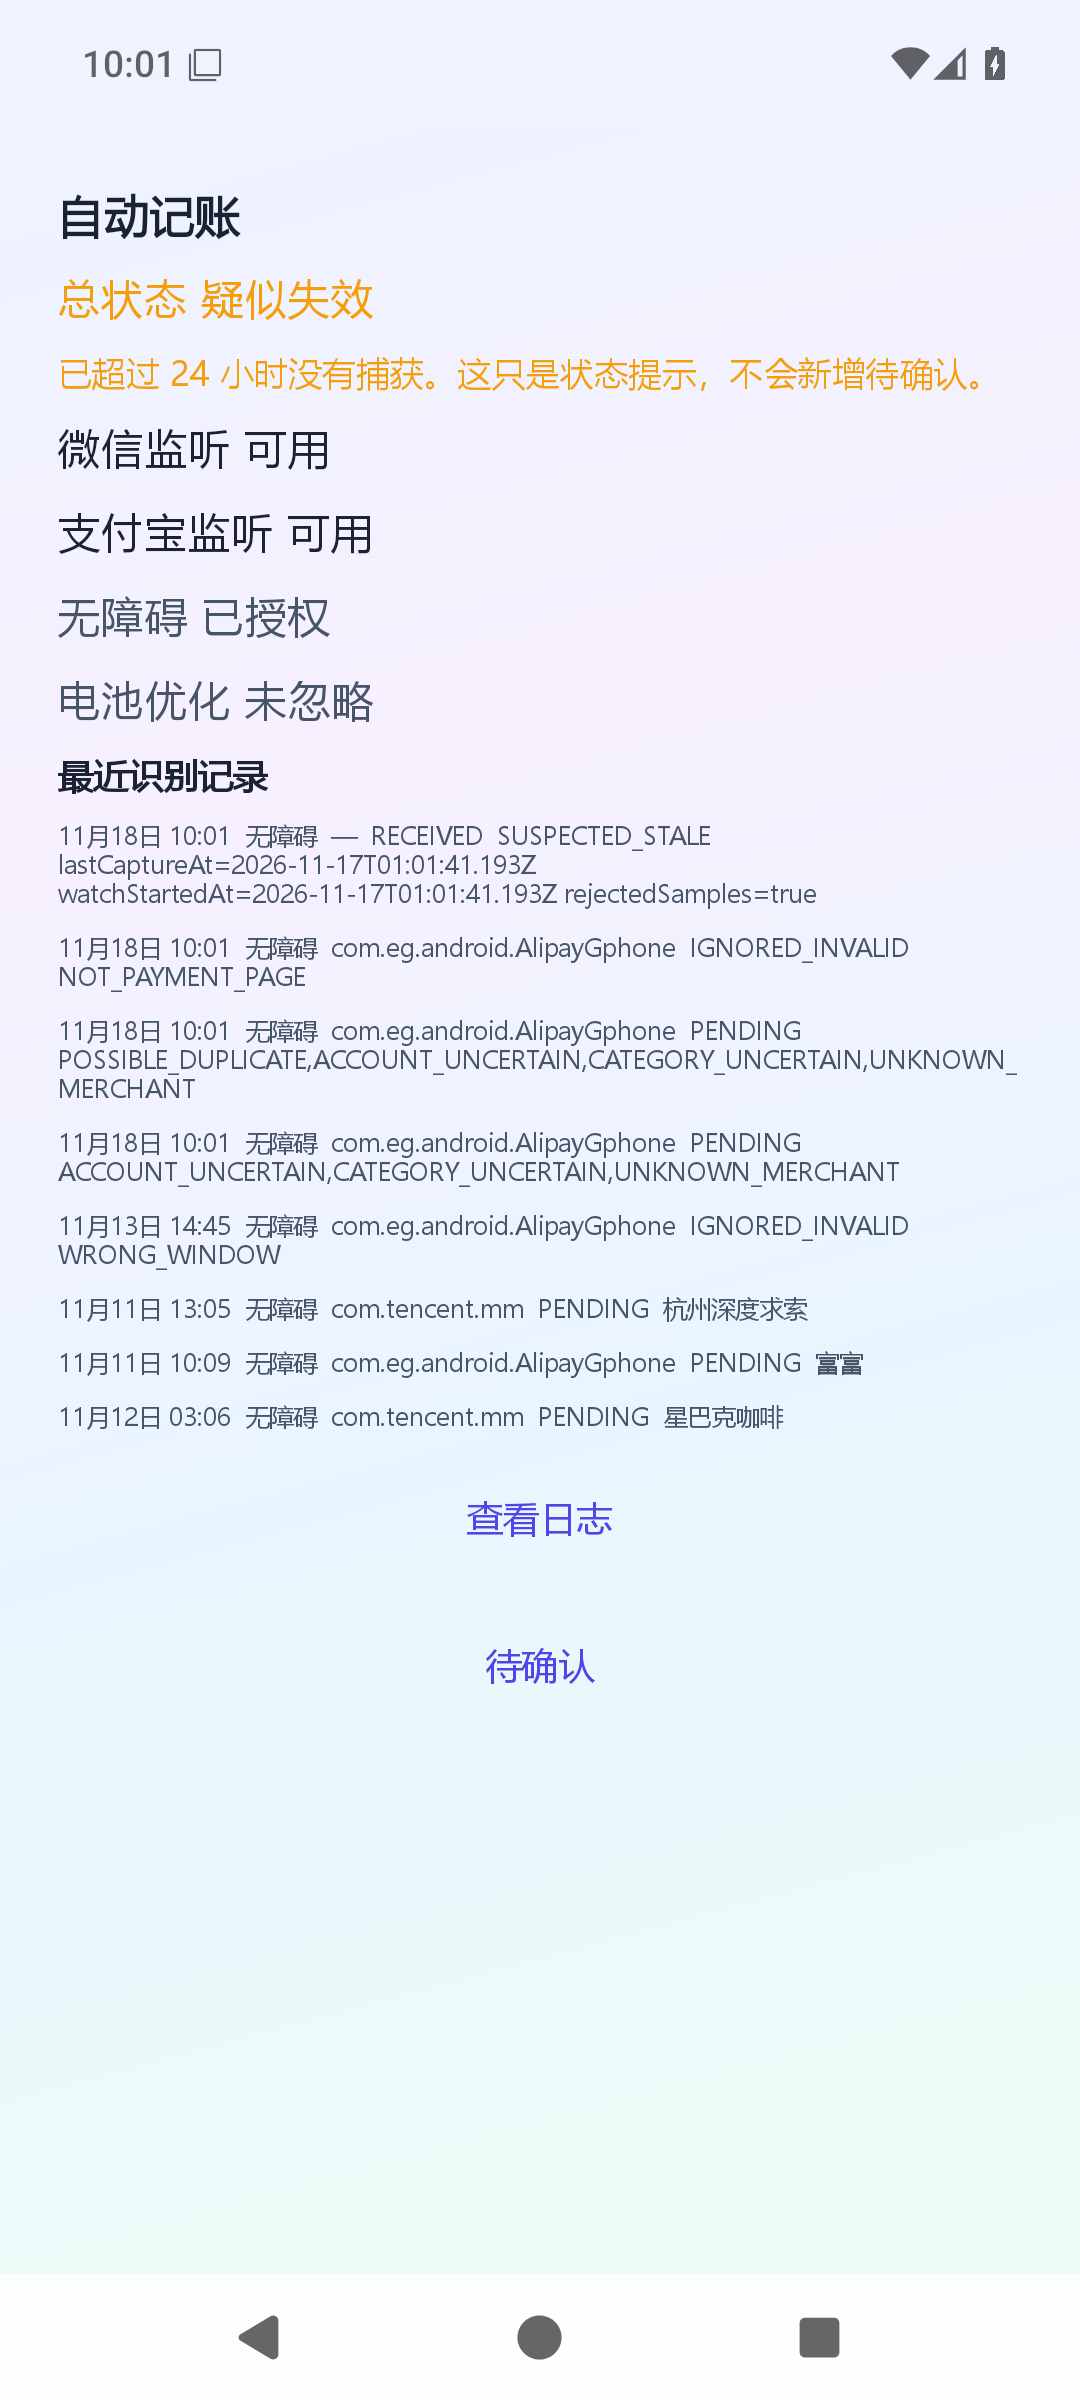
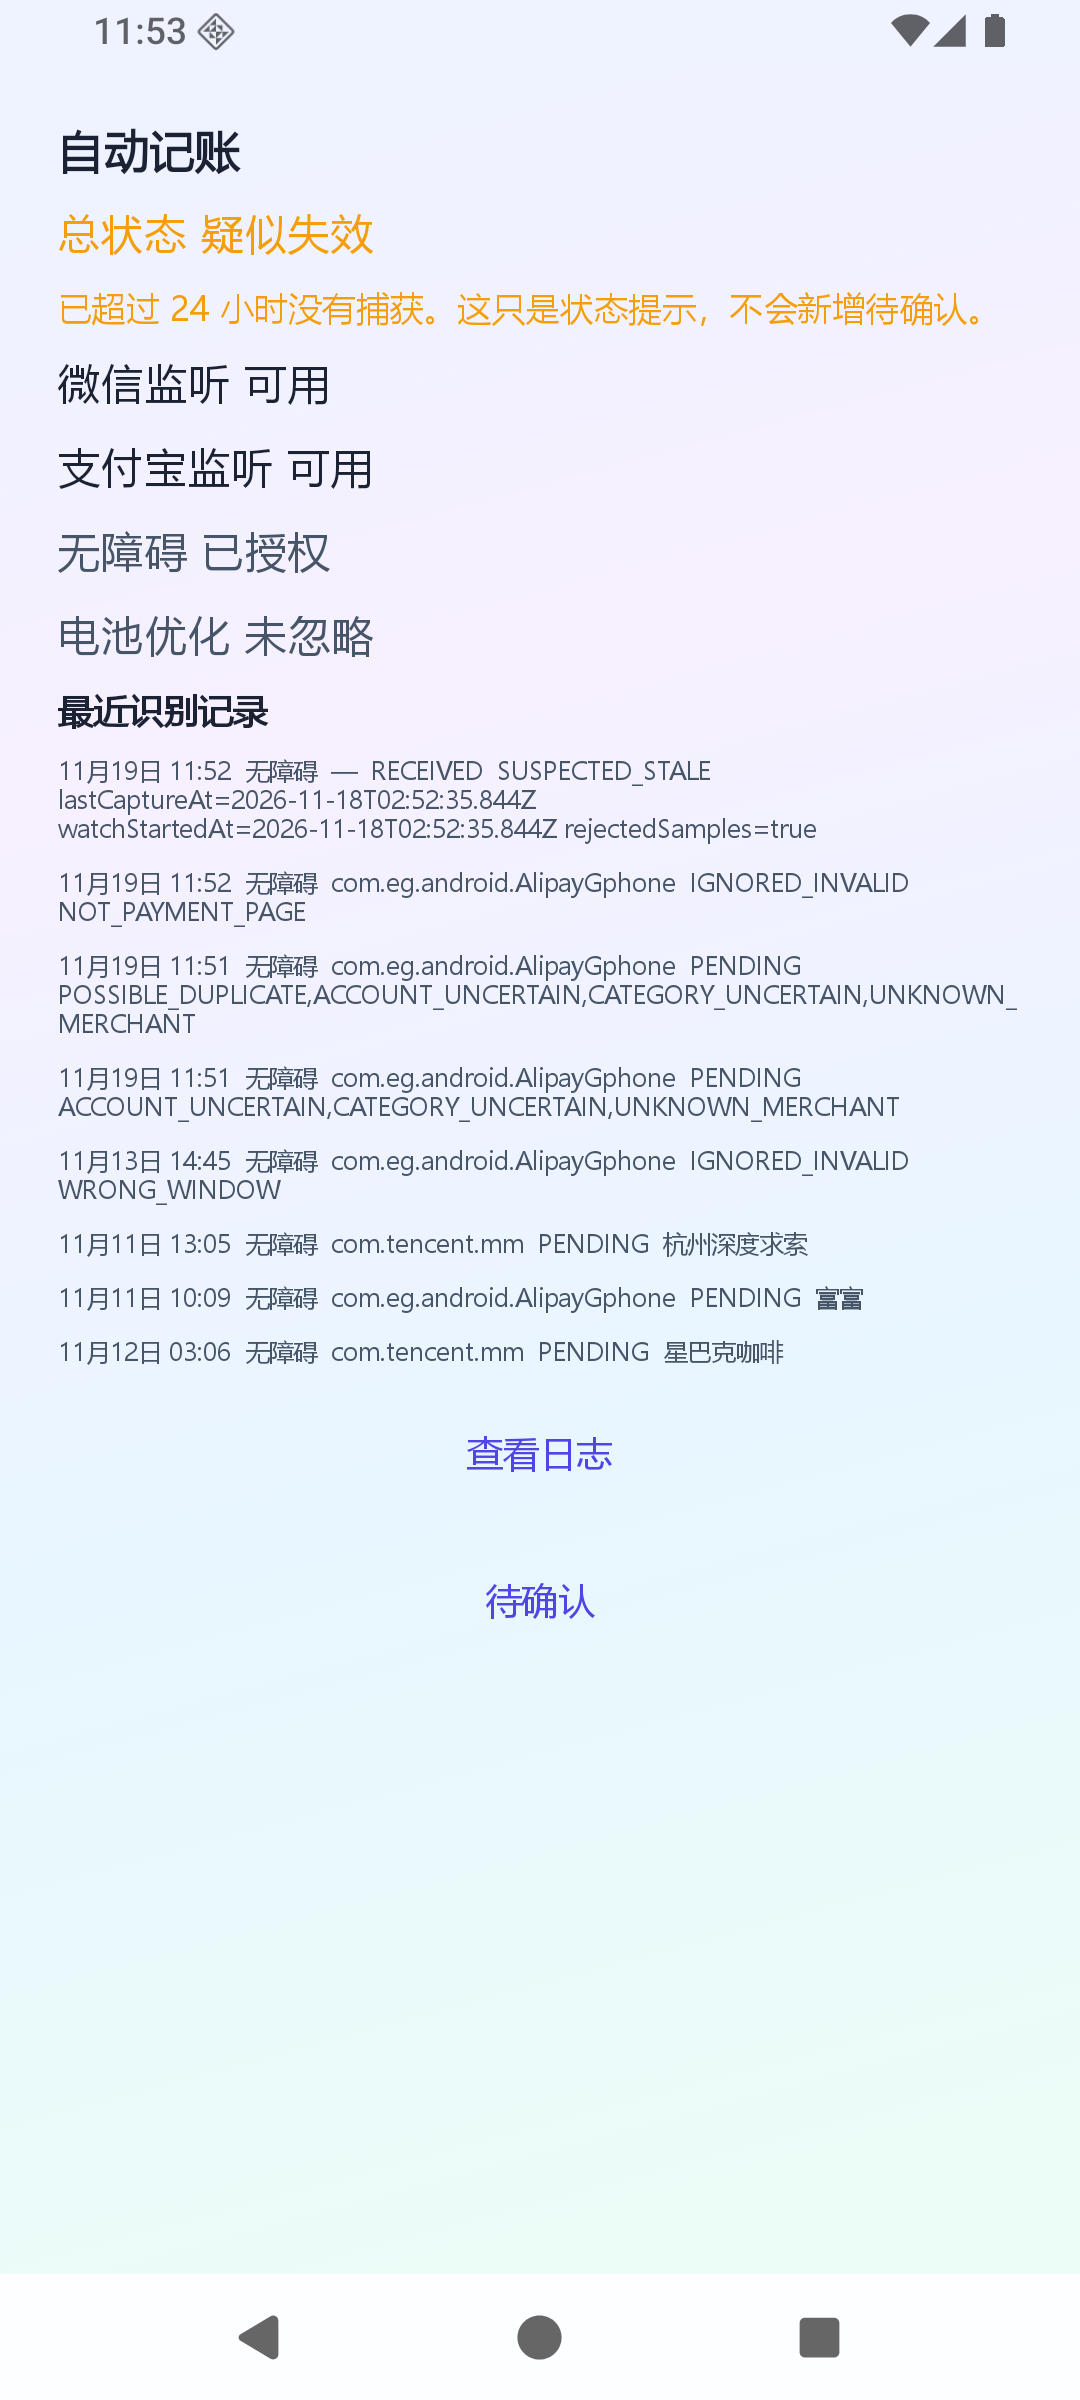
docs(proof): replace FX-1 evidence with the 6d5f42c6 emulator run
The JSON, broadcast log, git-sha, and four screenshots come from
Fx1ProofTest on that build. The device replay summary and install smoke
replace the placeholders. ac3-after-wrong-pending.png stays from c774287.

diff --git a/docs/proof/fx-1/README.md b/docs/proof/fx-1/README.md
@@ -1,8 +1,12 @@
 # FX-1 取证
 
-当前功能提交 `6d5f42c612db0768773fbf029349b240c9e08dec`。`git-sha.txt` 是这个提交。文档提交 `6868949cfe148a7247f0fce974e10ec4371e17e8` 只改 `docs/03`。
+功能提交 `6d5f42c612db0768773fbf029349b240c9e08dec`。`git-sha.txt` 与本目录里带 `gitSha` 的 JSON 都是这个提交。文档提交 `6868949cfe148a7247f0fce974e10ec4371e17e8` 只改 `docs/03`。
 
-AC-1 到 AC-5、AC-7 的 JSON 和截图仍是功能提交 `c77428730c79f5e8ff3ee985e3d3d0cf9c8381e8` 那次模拟器取证，这次没有替换。那些导出里的 `gitSha` 仍是 `c774287`。本环境模拟器停在 adb offline，没有用新包生成导出 JSON。AC-8、AC-9 是 JVM 单测摘录。截图时区 Asia/Shanghai。
+2026-11-19 本机 TCG 模拟器（AVD qj1，API 36）用该提交的 debug 包跑了 `Fx1ProofTest`，结果 OK (1 test)。16 个 JSON、`ac4-broadcast.txt`、`git-sha.txt` 和 4 张重拍 PNG 来自这次运行。仓库里没有缺新文件的旧 JSON，同名 JSON 都已换成这次的。
+
+没有 `gitSha` 字段的 JSON：`ac1-yuebao.json`、`ac1-yuebao-split.json`、`ac1-wrong-window.json`、`ac2-health-before.json`、`ac2-health.json`。其余 JSON 的 `gitSha` 都是 `6d5f42c612db0768773fbf029349b240c9e08dec`。
+
+`ac2-logs.png`、`ac3-yuebao-pending.png`、`ac4-stale-home.png`、`ac4-stale-auto-ledger.png` 是这次在 `6d5f42c6` 包上重拍的。`fx1-6d5f42c6-launch.png` 是同一次安装启动冒烟的截图。`ac3-after-wrong-pending.png` 仍是功能提交 `c77428730c79f5e8ff3ee985e3d3d0cf9c8381e8` 的图，这次包里没有同名新文件，所以保留。`suspected-stale-root-cause.md` 也不是这次导出，仍是原先那份说明。
 
 同一拒绝原因的去重窗口是 **60 秒**（`RejectionRateLimiter.WINDOW_MILLIS`）。窗口按原因码计算，不按包名。`now - previous < 60_000` 时丢掉后到的一条；刚好满 60 秒可以再记一条。
 
@@ -20,50 +24,66 @@ AC-1 到 AC-5、AC-7 的 JSON 和截图仍是功能提交 `c77428730c79f5e8ff3ee
 |---|---|
 | `ac2-export-before.json` | 六种原因各一条：WRONG_WINDOW、NO_MATCHING_WINDOW、NOT_PAYMENT_PAGE、WINDOW_NULL、NODE_EMPTY、SWITCH_OFF |
 | `ac2-export-after.json` | 与 before 相同。1 秒后的同原因没有再写 |
-| `ac2-health-before.json` / `ac2-health.json` | `lastCaptureAt` 仍为 null；`rejectedSamplesSinceCapture` 变为 true |
+| `ac2-health-before.json` / `ac2-health.json` | 两份都是 `lastCaptureAt` null、`watchStartedAt` null、`rejectedSamplesSinceCapture` true。这次的 before 已经是 true |
 | `ac2-ledger-before.json` / `ac2-ledger-after.json` | Pending 仍是 0 |
-| `ac2-logs.png` | 日志页筛选 IGNORED_INVALID，六种原因都在 |
+| `ac2-logs.png` | 日志页筛选 IGNORED_INVALID，六种原因都在。`6d5f42c6` 包上重拍 |
+
+这六条拒绝都带 `windowId`、`rootClass`、`viewIds`、`nodeCount`、`hasAmountStyle`、`hasPaymentKeyword`，值都是 null。测试记录它们时没有页面快照。
 
 ## AC-3 回放
 
 | 文件 | 内容 |
 |---|---|
 | `ac3-yuebao-ledger.json` | 两笔待确认，2510，EXPENSE，商户 null，ACCESSIBILITY，confirmedByUser false |
-| `ac3-yuebao-pending.png` | 待确认页 ¥25.10，商户显示「未知」 |
+| `ac3-yuebao-pending.png` | 待确认页 ¥25.10，商户显示「未知」。`6d5f42c6` 包上重拍 |
 | `ac3-before-wrong.json` / `ac3-after-wrong.json` | 看错窗口回放前后 Pending 条数不变 |
-| `ac3-after-wrong-pending.png` | 看错窗口回放后的待确认页：只有两笔 ¥25.10（余额宝），没有新增待确认。出处见下方说明 |
+| `ac3-after-wrong-pending.png` | 看错窗口回放后的待确认页。仍是 `c77428730c79f5e8ff3ee985e3d3d0cf9c8381e8` 的截图，见下方说明 |
 | `ac3-wrong-window-logs.json` | 导出含 WRONG_WINDOW 与 `fx-1-f-wrong-window`，不含页面正文 |
 | `ac3-regression.json` | m6-3-f-wx 1000/杭州深度求索，m6-3-f-ali 12999/富富，m6-2-wechat-pay-success 3850/星巴克咖啡。全部 PENDING，没有 CONFIRMED / DUPLICATE |
 
-`ac3-after-wrong-pending.png` 的出处：2026-11-18 11:27–11:30（HKT）在模拟器 qj1（TCG）上重跑 `Fx1ProofTest`，被测应用是功能提交 `c77428730c79f5e8ff3ee985e3d3d0cf9c8381e8` 的 debug 构建（sha256 与交付的 APK 相同，9258e3bc…）。为了多截这一张，我在本地给测试加了 3 行（看错窗口回放后再 `openPending()` 并 `shot("ac3-after-wrong-pending")`），这 3 行没有提交，仓库里的测试文件没变。这次重跑里 `ac3-before-wrong` 和 `ac3-after-wrong` 的 `pendingCount` 都是 2，行数都是 2，测试通过（OK (1 test)）。其余的 JSON 和 PNG 仍是原来那次取证的，这次没有替换。截图本身看不出回放发生过，它只证明回放之后待确认还是这两笔；回放前后条数不变看 `ac3-before-wrong.json` / `ac3-after-wrong.json`。
+`ac3-after-wrong-pending.png` 的出处：2026-11-18 11:27–11:30（HKT）在模拟器 qj1（TCG）上重跑 `Fx1ProofTest`，被测应用是功能提交 `c77428730c79f5e8ff3ee985e3d3d0cf9c8381e8` 的 debug 构建。为了多截这一张，本地给测试加了 3 行，这 3 行没有提交。这次 `6d5f42c6` 的包没有重拍这张图。
+
+`ac3-wrong-window-logs.json` 里，`fx-1-f-wrong-window` 那条 WRONG_WINDOW 有值：`windowId` 38598，`viewIds` 空数组，`nodeCount` 20，`hasAmountStyle` false，`hasPaymentKeyword` false，`rootClass` 仍是 null。同文件里没有页面快照的 `fx-1-WRONG_WINDOW`、`NOT_PAYMENT_PAGE`、`NO_MATCHING_WINDOW`、`WINDOW_NULL`、`NODE_EMPTY`、`SWITCH_OFF` 这六个字段都是 null。
 
 ## AC-4 疑似失效
 
 | 文件 | 内容 |
 |---|---|
-| `suspected-stale-root-cause.md` | 代码路径和 11-13 时间线（翻转发生在 11-13 09:00 到 14:45 之间） |
+| `suspected-stale-root-cause.md` | 代码路径和 11-13 时间线。不是这次导出，仍是原先的说明 |
 | `ac4-broadcast.txt` | 把上次捕获和开始监听一起拨回 25 小时 |
-| `ac4-stale-home.png` | 首页 `AUTO LEDGER · 疑似失效` |
-| `ac4-stale-auto-ledger.png` | 自动记账页「总状态 疑似失效」，一条翻转日志 |
+| `ac4-stale-home.png` | 首页 `AUTO LEDGER · 疑似失效`。`6d5f42c6` 包上重拍 |
+| `ac4-stale-auto-ledger.png` | 自动记账页「总状态 疑似失效」，一条翻转日志。`6d5f42c6` 包上重拍 |
 | `ac4-ledger.json` | Pending 仍是 5，没有新交易，没有 CONFIRMED / DUPLICATE |
 | `ac4-export.json` | 一条 `SUSPECTED_STALE`，含 lastCaptureAt、watchStartedAt、rejectedSamples=true |
 
 ## AC-5
 
-`git-sha.txt` = `6d5f42c612db0768773fbf029349b240c9e08dec`。该提交上 `assembleDebug` 打出的 debug 包，`BuildConfig.GIT_SHA` 与此相同。没有装到模拟器，也没有从设备拉出新的导出 JSON。
+`git-sha.txt` = `6d5f42c612db0768773fbf029349b240c9e08dec`。与这次模拟器上 `Fx1ProofTest` 写出的 `BuildConfig.GIT_SHA` 相同。
+
+## AC-7
+
+本切片没有自动确认路径。上表账本里无障碍行的 state 都是 PENDING，confirmedByUser 都是 false。
 
 ## AC-8 停留不再看节点文本
 
 | 文件 | 内容 |
 |---|---|
-| `ac8-stay.md` | 节点从「支付金额」换成「回首页」、相隔 1.3 秒仍是 1 条；不同单号、16 秒、不同窗口仍是 2 条。真机 ¥22.50 / ¥12.90 回放结果由 Eng 本机提供 |
+| `ac8-stay.md` | JVM 合成页，以及 `replay-summary-6d5f42c6.txt` 里 ¥22.50 / ¥12.90 的回放结论 |
+| `replay-summary-6d5f42c6.txt` | 真机回放摘要。只含时间、windowId、节点数和结论 |
 
 ## AC-9 会话列表拒绝证据
 
 | 文件 | 内容 |
 |---|---|
-| `ac9-chat-list.md` | 合成会话列表待确认 0 条，每次 `NOT_PAYMENT_PAGE`。单测导出含结构字段，不含正文、金额数字、人名、contentDescription。60 秒内同一原因只留一条 |
+| `ac9-chat-list.md` | 合成会话列表的单测断言，以及 windowId 44349 的 31 份回放 |
 
-## AC-7
+仪器导出里每条拒绝日志都有那六个结构字段。有值的只有 `fx-1-f-wrong-window`。带正文证据的 `NOT_PAYMENT_PAGE` 由 JVM 单测证明，摘录在 `ac9-chat-list.md`。
 
-本切片没有自动确认路径。上表账本里无障碍行的 state 都是 PENDING，confirmedByUser 都是 false。
+## AC-10 安装启动冒烟
+
+| 文件 | 内容 |
+|---|---|
+| `smoke-6d5f42c6.txt` | 卸载、安装、启动、崩溃检查的原始输出，未手改 |
+| `fx1-6d5f42c6-launch.png` | 启动后的截图 |
+
[1 lines of base64/hex data omitted]

diff --git a/docs/proof/fx-1/ac9-chat-list.md b/docs/proof/fx-1/ac9-chat-list.md
@@ -2,10 +2,26 @@
 
 功能提交 `6d5f42c612db0768773fbf029349b240c9e08dec`。
 
-来源仍是 JVM `AccessibilitySnapshotIngestTest`，不是模拟器上导出的文件。本环境的模拟器停在 adb offline，没有生成新的导出 JSON。
+`微信会话列表不入库并留下不含正文的拒绝日志` 通过。断言摘录：
 
-`微信会话列表不入库并留下不含正文的拒绝日志`：通过。待确认 0 条，原因 `NOT_PAYMENT_PAGE`，没有交易。导出 JSON 含 `windowId` 44349、根节点 class `android.widget.FrameLayout`、资源 id `com.tencent.mm:id/jga`、`nodeCount` 4、`hasAmountStyle` true、`hasPaymentKeyword` true。导出和 `rawCaptureRef` 都不含「王小明」「晚上吃饭」「更多功能」「头像」「3.90」「3.9」「390」。`sensitiveFindings` 为空。
+```text
+assertEquals(0, harness.transactions.countByState(TransactionState.PENDING))
+assertEquals("NOT_PAYMENT_PAGE", log.reason)
+assertTrue(exported.contains("\"windowId\":44349"))
+assertTrue(exported.contains("\"rootClass\":\"android.widget.FrameLayout\""))
+assertTrue(exported.contains("com.tencent.mm:id/jga"))
+assertTrue(exported.contains("\"nodeCount\":4"))
+assertTrue(exported.contains("\"hasAmountStyle\":true"))
+assertTrue(exported.contains("\"hasPaymentKeyword\":true"))
+listOf("王小明", "晚上吃饭", "更多功能", "头像", "3.90", "3.9", "390").forEach { secret ->
+    assertFalse(exported.contains(secret))
+    assertFalse(log.rawCaptureRef.orEmpty().contains(secret))
+}
+assertTrue(CaptureLogExport.sensitiveFindings(exported).isEmpty())
+```
 
-`同一会话列表隔七十分钟仍不产生待确认`：通过。待确认仍是 0。两次采样各写一条 `NOT_PAYMENT_PAGE`。
+`同一会话列表隔七十分钟仍不产生待确认` 也通过：待确认 0，两条都是 `NOT_PAYMENT_PAGE`。隔了 70 分钟，所以 60 秒限流放行第二条。
 
-60 秒限流按原因码，不按包名。同一原因在 60 秒内只留一条，所以导出条数可以少于采样次数；刚好满 60 秒可以再记一条。上面隔 70 分钟所以是 2 条。`AccessibilityRejectionLogTest` 的「六种原因都进导出且同窗口内只留一条」和「窗口刚好结束时可以再记一条」仍通过。
+仪器测试导出（`ac2-export-before.json`、`ac3-wrong-window-logs.json`、`ac4-export.json`）里，每条拒绝日志都有 `windowId`、`rootClass`、`viewIds`、`nodeCount`、`hasAmountStyle`、`hasPaymentKeyword`。有非空取值的只有 `fx-1-f-wrong-window`：`windowId` 38598，`viewIds` 为 `[]`，`nodeCount` 20，两个布尔都是 false，`rootClass` 仍是 null。没有页面快照的五种拒绝（`NO_MATCHING_WINDOW`、`NOT_PAYMENT_PAGE`、`WINDOW_NULL`、`NODE_EMPTY`、`SWITCH_OFF`）以及无快照的 `fx-1-WRONG_WINDOW`，这六个字段都是 null。带证据的 `NOT_PAYMENT_PAGE` 由上面这条 JVM 单测证明，不在这次仪器导出里。
+
+真机回放见 `replay-summary-6d5f42c6.txt`。微信会话列表 `windowId` 44349 共 31 份，回放后待确认 0 条。拒绝日志只有 `NOT_PAYMENT_PAGE`：写下 8 条，另外 23 条落在 60 秒限流内，记为 `REJECTED_LOG_RATE_LIMITED`，没有再写一条。方法和限制与 `ac8-stay.md` 相同。真机原始快照和数据库不进仓库。

diff --git a/docs/proof/fx-1/ac8-stay.md b/docs/proof/fx-1/ac8-stay.md
@@ -24,4 +24,8 @@ PASS 同支付时间隔七十分钟不再插入且捕获时刻另存
 - 无单号、同一 `windowId`、相隔 16 秒 → 2 条
 - 无单号、`windowId` 8801 与 8802、相隔 2 秒 → 2 条
 
-真机 ¥22.50 / ¥12.90 回放结果由 Eng 本机提供。私有快照和数据库不进仓库。
+真机回放见 `replay-summary-6d5f42c6.txt`（2026-11-19 11:43:33 生成，未手改）。方法：取真机库 33 条 PENDING 行的 `rawCaptureRef` 保真节点树，加上另外 17 份快照，按 `capturedAt` 排序，经 `AccessibilitySnapshotFidelity.decode` / `toSnapshot` 还原后，逐条喂给空库上的 `AccessibilitySnapshotIngest`。这是一次性 JVM harness，跑完已删除，没有入库。真机原始快照和数据库不进仓库。
+
+限制：真机快照没有 `className`、`clickable`、`rootClassName`，按钮商户规则和根 class 不能回放。`WRONG_WINDOW` 样本没有节点树，未回放。摘要只含时间、`windowId`、节点数和结论。
+
+¥22.50 那对是支付宝 `windowId` 44003，18:10:42.277 与 18:10:43.586，相隔 1.3 秒，`fpSameAsPrev=false`。同一回放在 `2de52187` 上是 2 行；在 `6d5f42c6` 上第二条 `MERGED_INTO_EXISTING`，只留 1 行。¥12.90 那对是 `windowId` 44440，09:21:53.974 与 09:21:55.016，约 1.0 秒，`fpSameAsPrev=true`，合并成 1 行。全部 50 份输入回放后待确认共 2 行（真机库原来 33 行），已确认 0。对照 `2de52187` 同一回放是 3 条待确认（¥22.50 两行，¥12.90 一行）。
